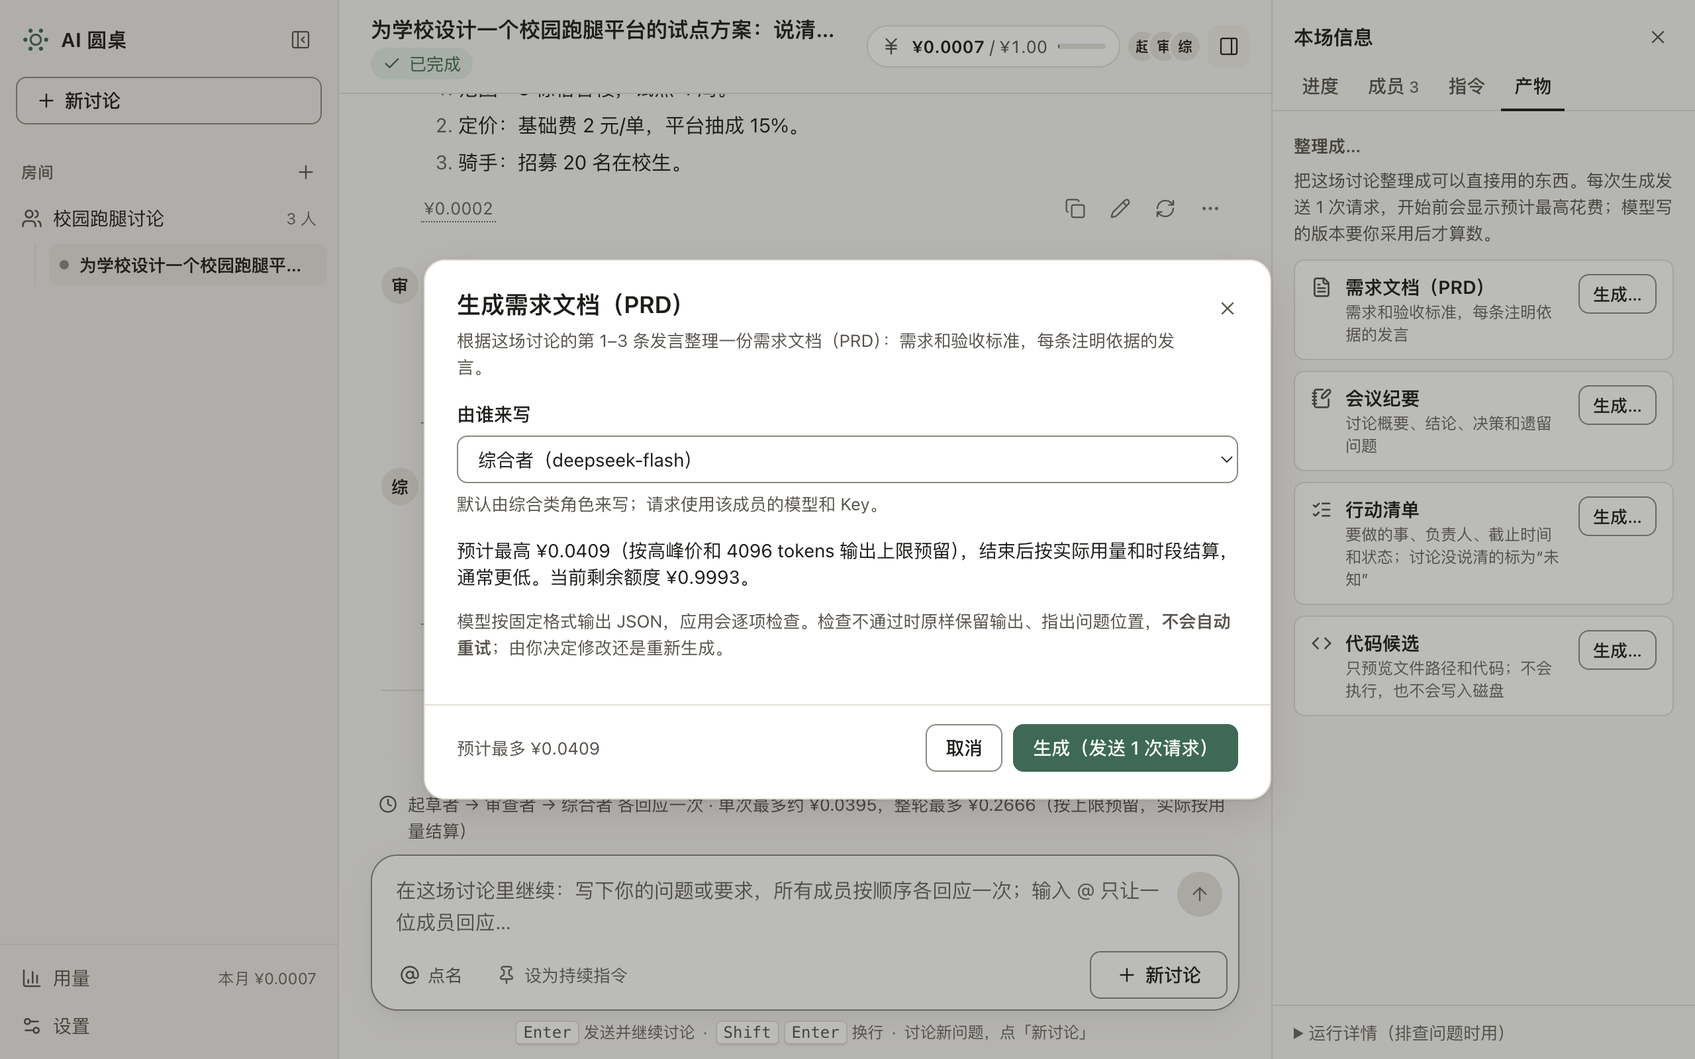
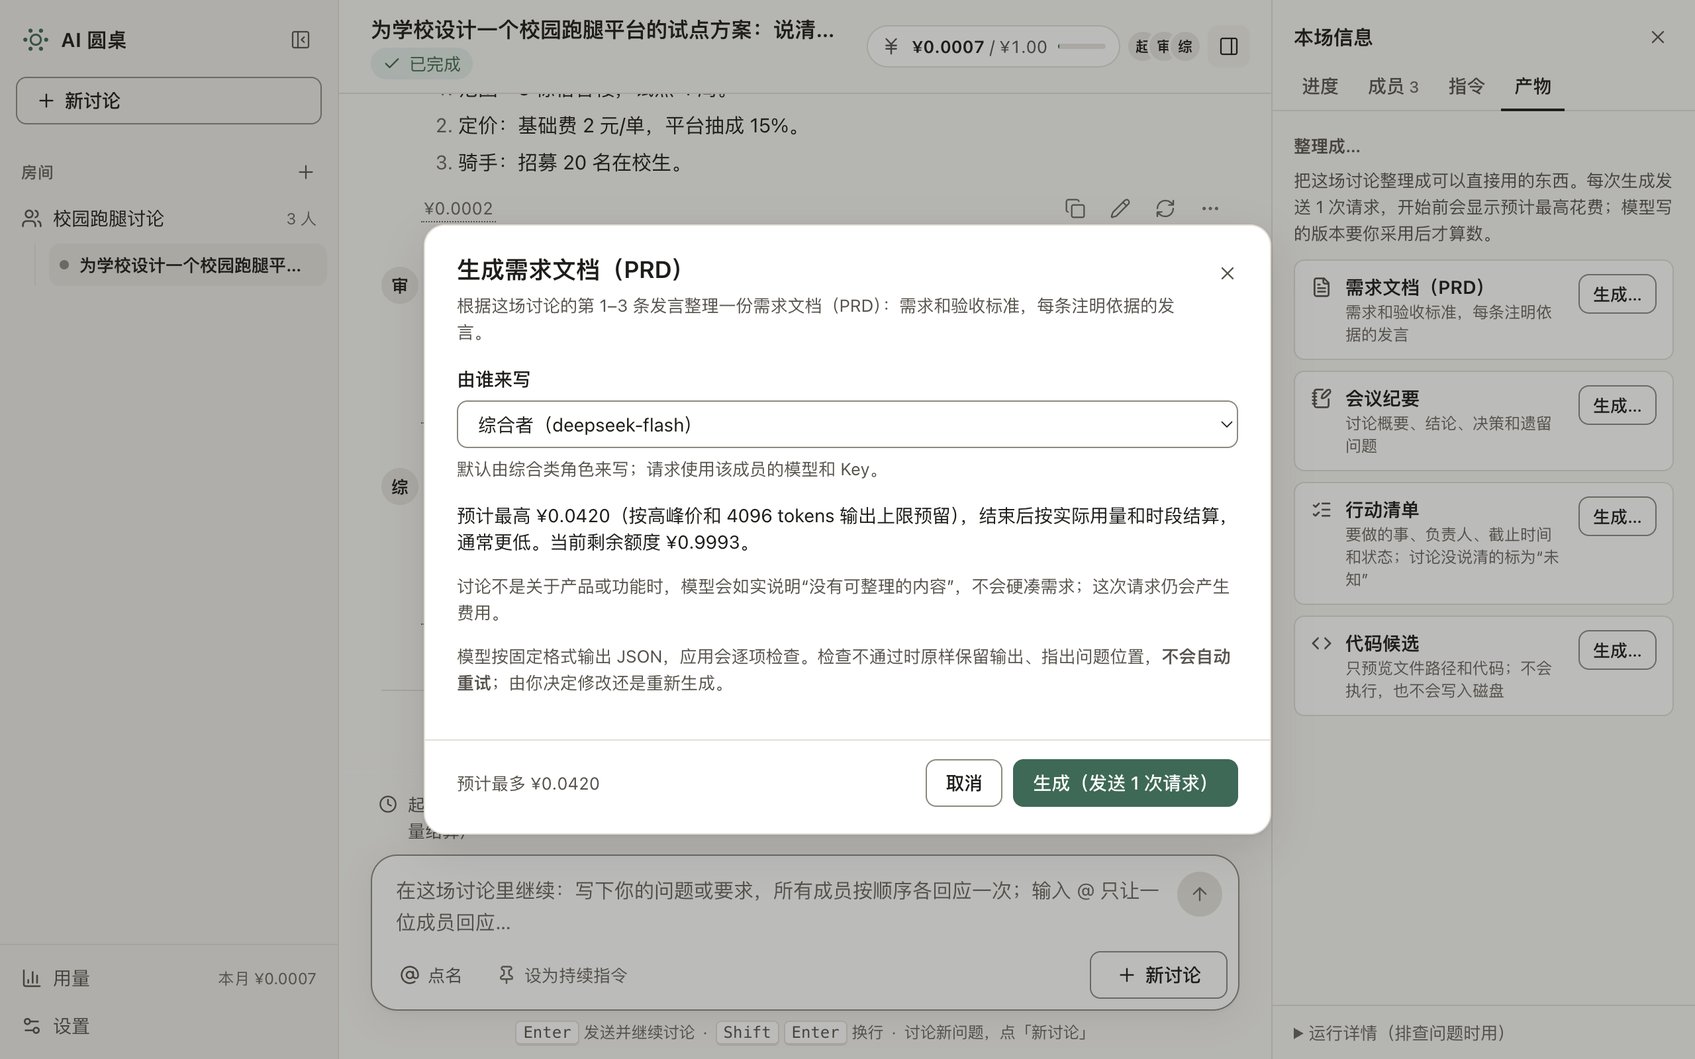
docs(r14): D124, cache-friendly order in D120 and the real-model results
Layer 3 is verified with the user's DeepSeek test; the code-candidate problem it
found and the zero cache hits are fixed here. Screens retaken on the final build.

Changed region(s): [[0.25, 0.1875, 0.75, 0.6562], [0.25, 0.6562, 0.75, 0.8125]]

diff --git a/docs/verification/2026-10-28-r14.md b/docs/verification/2026-10-28-r14.md
@@ -22,7 +22,7 @@
 | 命令 | 退出码 | 结果 |
 | --- | --- | --- |
 | `pnpm run typecheck` | 0 | 无错误 |
-| `pnpm test` | 0 | 138 个文件 / 2008 个测试全部通过（基线 134 / 1970） |
+| `pnpm test` | 0 | 138 个文件 / 2013 个测试全部通过（基线 134 / 1970） |
 | `pnpm run build` | 0 | main / preload / renderer 构建成功 |
 
 新增测试，对应任务书"具体测试情景"：
@@ -53,7 +53,7 @@
 | r16-continuity-acceptance | 38 项 / 15 张 PASS |
 | r16-longhistory | PASS（1001 条消息） |
 | r16-batch2-acceptance 首次 + `--restart` + `--restart2` | 58 + 7 + 7 项 PASS |
-| **r14-acceptance**（新）首次 + `--restart` | 56 + 6 项；21 + 2 张截图；夹具请求 8 + 0 次（总控审查修改后在最终构建上复跑） |
+| **r14-acceptance**（新）首次 + `--restart` | 59 + 7 项；22 + 2 张截图；夹具请求 9 + 0 次（真实实测后的修改完成后在最终构建上复跑） |
 
 共 35 个探针阶段，0 失败。其他任务的截图目录在复跑时被重新生成，提交前已用 `git checkout -- docs/verification` 还原，只保留本任务的 `r14-screens/`；本次运行创建的临时 profile 已删除。
 
@@ -71,7 +71,7 @@
 ./node_modules/.bin/electron tests/probes/r14-acceptance.cjs --restart <第一次输出的 profile 目录>
 ```
 
-截图在 [r14-screens/](r14-screens/)，1280 / 800 两档、浅色 / 深色。逐张说明：
+截图在 [r14-screens/](r14-screens/)，1280 / 800 两档、浅色 / 深色（真实实测后的修改完成后在最终构建上重拍）。逐张说明：
 
 | 截图 | 说明 |
 | --- | --- |
@@ -85,21 +85,22 @@
 | [08-minutes-editing.png](r14-screens/08-minutes-editing.png) | 点“修改为有效版本…”：在带实时校验的 JSON 编辑框里修改。改好“参与者”（写成列表）和“决定人”（讨论没说，写 null 表示未知）后，实时校验显示只剩一开始就列出的那 1 处：结论第 2 项引用了不存在的“第 7 条”（这次依据第 1–3 条）。每处问题前的“第 N 行”可以点，光标直接跳到那一行。“保存为新版本”在校验通过前不可用。 |
 | [09-minutes-fixed.png](r14-screens/09-minutes-fixed.png) | 保存后成为第 2 版“你修改的版本”，直接有效（主持人写的不需要再采用）；决策的“决定人”显示为“未知”。版本下拉里第 1 版仍是“校验失败”，原始输出可随时查看。整个修改没有发出请求。 |
 | [10-actions-candidate.png](r14-screens/10-actions-candidate.png) | 行动清单：事项、负责人、截止时间、状态、来源。讨论里没指派的负责人和没说的截止时间显示为“未知”，顶部提示“2 项没有明确负责人”；截止时间照抄讨论原话“第 2 周前”，没有换算成日期。 |
-| [11-code-candidate.png](r14-screens/11-code-candidate.png) | 代码候选：顶部写明“只在这里预览：不会执行，也不会写入任何文件”；每个文件显示相对路径、语言和行数，代码用净化后的代码块显示（可复制）。 |
-| [12-code-adopted.png](r14-screens/12-code-adopted.png) | 采用后代码候选有效：可以“复制 Markdown / JSON”，但没有“另存为…”，并写明写入磁盘会在后续版本提供、逐个文件确认。供后续写盘功能读取的接口只列出这份已采用、通过校验的候选；磁盘上没有任何新文件。 |
-| [13-panel-affected.png](r14-screens/13-panel-affected.png) | 主持人修改第 1 条发言后，产物标签页里依据了第 1 条的需求文档、行动清单、代码候选都标“受影响”（会议纪要是主持人自己改的版本，按修改时的原文记录依据，同样受影响）。 |
-| [14-prd-affected.png](r14-screens/14-prd-affected.png) | 打开需求文档：顶部提示“受影响：依据的第 1 条发言在这一版写成后被修改或重新生成，内容可能已经过时”，旁边就是“重新生成…”。 |
-| [15-prd-regenerate-dialog.png](r14-screens/15-prd-regenerate-dialog.png) | “重新生成需求文档（PRD）”：沿用上次的成员（综合者），说明会作为新的一版、之前的版本都保留，并写明预计最高花费。 |
-| [16-prd-regenerated.png](r14-screens/16-prd-regenerated.png) | 重新生成得到第 2 版（依据修改后的第 1 条，范围改成 2 栋），不再受影响；已采用。版本下拉里第 1 版仍保留并标“受影响”。 |
-| [17-prd-saved.png](r14-screens/17-prd-saved.png) | “另存为… › Markdown 文件（.md）”由 Main 弹出系统保存对话框，只写入主持人选的文件（探针选了自己的临时目录），提示“已保存为‘校园跑腿试点 PRD.md’”；状态变成“有效 · 已导出”。 |
-| [18-panel-800-dark.png](r14-screens/18-panel-800-dark.png) | 800×600 深色：本场信息变成右侧抽屉，产物列表的状态（有效 · 已导出、你修改的版本、受影响）清楚可读，无横向滚动。 |
-| [19-minutes-800-dark.png](r14-screens/19-minutes-800-dark.png) | 800×600 深色：阅读器占满窗口留边，长内容在中间滚动，头部（版本、状态）和底部按钮固定；“未知”标记在深色下仍清楚。 |
-| [20-minutes-v1-800-dark.png](r14-screens/20-minutes-v1-800-dark.png) | 在版本下拉里切回第 1 版：原样的不合格输出、逐项错误和标红的行都还在（深色）。 |
-| [21-usage-by-purpose-dark.png](r14-screens/21-usage-by-purpose-dark.png) | 用量页新增“按用途”：讨论发言、产物（文档、清单、代码候选）分开汇总请求数、用量和金额；导出的 CSV 里产物请求的类型写“产物”。 |
+| [11-code-empty.png](r14-screens/11-code-empty.png) | 这场讨论没有涉及代码：模型按约定只回了 {"nothing": 原因}。阅读器显示“没有可整理的内容”（中性灰，不是红色的校验失败），写明这不是模型出错、这一版不能采用或导出，并原样给出模型的说明；底部是“重新生成…”（主按钮）和“自己写一版…”，没有采用和导出。 |
+| [12-code-candidate.png](r14-screens/12-code-candidate.png) | 代码候选：顶部写明“只在这里预览：不会执行，也不会写入任何文件”；每个文件显示相对路径、语言和行数，代码用净化后的代码块显示（可复制）。 |
+| [13-code-adopted.png](r14-screens/13-code-adopted.png) | 采用后代码候选有效：可以“复制 Markdown / JSON”，但没有“另存为…”，并写明写入磁盘会在后续版本提供、逐个文件确认。供后续写盘功能读取的接口只列出这份已采用、通过校验的候选；磁盘上没有任何新文件。 |
+| [14-panel-affected.png](r14-screens/14-panel-affected.png) | 主持人修改第 1 条发言后，产物标签页里依据了第 1 条的需求文档、行动清单、代码候选都标“受影响”（会议纪要是主持人自己改的版本，按修改时的原文记录依据，同样受影响）。 |
+| [15-prd-affected.png](r14-screens/15-prd-affected.png) | 打开需求文档：顶部提示“受影响：依据的第 1 条发言在这一版写成后被修改或重新生成，内容可能已经过时”，旁边就是“重新生成…”。 |
+| [16-prd-regenerate-dialog.png](r14-screens/16-prd-regenerate-dialog.png) | “重新生成需求文档（PRD）”：沿用上次的成员（综合者），说明会作为新的一版、之前的版本都保留，并写明预计最高花费。 |
+| [17-prd-regenerated.png](r14-screens/17-prd-regenerated.png) | 重新生成得到第 2 版（依据修改后的第 1 条，范围改成 2 栋），不再受影响；已采用。版本下拉里第 1 版仍保留并标“受影响”。 |
+| [18-prd-saved.png](r14-screens/18-prd-saved.png) | “另存为… › Markdown 文件（.md）”由 Main 弹出系统保存对话框，只写入主持人选的文件（探针选了自己的临时目录），提示“已保存为‘校园跑腿试点 PRD.md’”；状态变成“有效 · 已导出”。 |
+| [19-panel-800-dark.png](r14-screens/19-panel-800-dark.png) | 800×600 深色：本场信息变成右侧抽屉，产物列表的状态（有效 · 已导出、你修改的版本、受影响）清楚可读，无横向滚动。 |
+| [20-minutes-800-dark.png](r14-screens/20-minutes-800-dark.png) | 800×600 深色：阅读器占满窗口留边，长内容在中间滚动，头部（版本、状态）和底部按钮固定；“未知”标记在深色下仍清楚。 |
+| [21-minutes-v1-800-dark.png](r14-screens/21-minutes-v1-800-dark.png) | 在版本下拉里切回第 1 版：原样的不合格输出、逐项错误和标红的行都还在（深色）。 |
+| [22-usage-by-purpose-dark.png](r14-screens/22-usage-by-purpose-dark.png) | 用量页新增“按用途”：讨论发言、产物（文档、清单、代码候选）分开汇总请求数、用量和金额；导出的 CSV 里产物请求的类型写“产物”。 |
 | [40-restart-panel.png](r14-screens/40-restart-panel.png) | 重启应用后重新打开这场讨论：四份产物、各自的版本和状态（有效 · 已导出、你修改的版本、受影响）都在。 |
 | [41-restart-minutes.png](r14-screens/41-restart-minutes.png) | 重启后打开会议纪要：第 2 版（你修改的）有效，版本下拉里第 1 版仍是校验失败、原始输出完整。 |
 
-第一次启动 56 项断言、21 张截图、8 次夹具请求（3 次发言 + 5 次产物：四类各一次、需求文档重新生成一次；会议纪要靠手工修改变有效，没有第二次请求）；重启 6 项断言、2 张截图、0 次请求，并只读核对 SQLite：migration 12、6 个产物版本、5 笔已结算的产物请求、1 次文件导出。
+第一次启动 59 项断言、22 张截图、9 次夹具请求（3 次发言 + 6 次产物：四类各一次，代码候选第一次如实回答"没有可整理的内容"后重新生成一次，需求文档受影响后重新生成一次；会议纪要靠手工修改变有效，没有第二次请求）；重启 7 项断言、2 张截图、0 次请求，并只读核对 SQLite：migration 12、7 个产物版本、6 笔已结算的产物请求、空结果及其原因、1 次文件导出。
 
 ### 实操中发现并修掉的问题
 
@@ -120,32 +121,32 @@
 
 ## 第 3 层：真实模型实测
 
-**未验证。** 合并前由总控与用户一起，用用户自己的 DeepSeek Key 在隔离试用 profile 里跑（不接触真实数据库）：
+**已验证**（总控与用户一起，2026-10-28 21:11 起，用户自己的 DeepSeek Key，模型 `deepseek-flash`，隔离试用 profile，空闲时段；基于 5 条发言的读书会讨论）：
 
-```bash
-pnpm trial:reset
-```
+| 项 | 结果 |
+| --- | --- |
+| JSON 一次通过率 | 会议纪要、行动清单、需求文档都一次通过校验并被采用，需求文档复制了 2 次 |
+| 未知事实 | 行动清单 15 项，负责人全部是 `null`，截止时间照抄讨论原话，没有编造；来源编号都在第 1–5 条之内 |
+| 花费 | 4 笔产物请求合计 ¥0.048，逐笔验算与账本一致 |
+| 代码候选 | 讨论没有涉及代码，模型如实输出 `title: null`、`files: []`，按当时的 schema 判为 2 处错误，界面显示"校验失败"、看起来像模型出错。**已在本次修复**：约定 `{"nothing": 原因}`，单独的状态"没有可整理的内容"（D124），截图 11 |
+| 缓存命中 | 同一场讨论连续 4 类请求 `cache_hit_tokens` 都是 0，旧的消息顺序在第二条就分叉。**已在本次修复**：共同前缀在前，各类的整理要求放在最后（D120） |
 
-```bash
-pnpm trial
-```
+修复后没有再做真实请求：新的消息顺序能否命中 DeepSeek 缓存、模型是否按约定回答 `nothing`，留到下一次真实使用时在用量页（"缓存命中"一栏）和阅读器里观察。
 
-建议脚本（预计实际花费约 ¥0.10–0.15，按高峰价与输出上限预留的最高总额约 ¥0.40；空闲时段减半。建议本场预算设 ¥0.50）：
+## 真实实测后的修改（2026-10-28）
 
-1. 新建房间（起草者 / 审查者 / 综合者，都用 DeepSeek Flash），目标写一个有明确取舍、**故意不指派负责人和日期**的话题，例如"给社团招新设计一个两周的推广计划：说清渠道、预算和衡量指标"。跑完 3 回合。
-2. 依次生成需求文档、会议纪要、行动清单、代码候选（代码可以让讨论里先提到"写一个报名表单的校验函数"）。每次生成前记下对话框里的预计最高花费，结束后在用量页 › 按用途 对照"产物"一行。
-3. 重点看：
-   - **JSON 一次通过率**：四类各一次，记录哪类校验失败、失败在哪个字段（阅读器里能直接看到）。
-   - **未知事实有没有被编造**：行动清单的负责人和截止时间，讨论没说的应当是"未知"；PRD 的来源编号应当能在时间线里对上（点"第 N 条"核对）。
-   - **内容质量**：是否只整理讨论内容、是否照抄发言、PRD 的验收标准能否验证、会议纪要的决策是否真的是决定过的。
-4. 改第 1 条发言后，确认四份产物标"受影响"；对 PRD 重新生成一次，核对新版本采用了修改。
-5. 用量页导出 CSV，核对产物请求的类型列为"产物"，金额与 DeepSeek 控制台一致（空闲时段更容易逐笔对账）。
+| 问题 | 处理 |
+| --- | --- |
+| 讨论里没有代码时，代码候选显示"校验失败" | D124：需求文档、行动清单、代码候选的整理要求里约定"没有就只输出 `{\"nothing\": 原因}`"；解析器只在模型输出里接受，版本状态"没有可整理的内容"，显示模型的原因；不能采用、导出，不进 R15；可以重新生成或"自己写一版"（从空白字段开始）。会议纪要不提供（任何讨论都能写纪要）。生成对话框提前写明"模型会如实说明，这次请求仍会产生费用"。migration 12 尚未合入 main，直接修改：`validation` 增加 `empty`、新列 `empty_reason`、触发器拒绝空的会议纪要；恢复校验同步 |
+| 产物请求缓存命中为 0 | 消息顺序改为：边界说明 → 各类通用的记录员说明 → 一条 user 消息（任务、讨论记录，最后是这一类的【整理要求】和提示）。集成测试核对四类请求除末尾外前缀完全相同 |
+
+修改后重新执行：`pnpm run typecheck` 0；`pnpm test` 138 个文件 / 2013 个测试全部通过；`pnpm run build` 0；在最终构建上重跑全部 35 个探针阶段，0 失败（r14 为 59 + 7 项）。
 
 ## 遗留问题
 
 | 项 | 说明 |
 | --- | --- |
-| 第 3 层 | 未验证，见上方建议脚本 |
+| 第 3 层的修复后表现 | 新的消息顺序能否命中 DeepSeek 缓存、模型是否按约定回答 `nothing`，修复后还没有真实请求验证 |
 | 同类型第二份产物 | 某类已有产物后，面板只提供打开（在阅读器里重新生成）；同一场讨论生成两份不同的同类产物暂不提供，数据模型已支持 |
 | 修改方式 | 只有带实时校验的 JSON 编辑框，没有逐字段表单；对不熟悉 JSON 的用户门槛偏高，可在后续按使用反馈加表单 |
 | 编辑时的状态句 | 修改校验失败的版本时，顶部仍是那一版的"N 处问题"，实时结果在编辑框下方 |
@@ -157,5 +158,5 @@ pnpm trial
 
 1. 按提交顺序审查：`fde43ca`（migration 12 与 Shared 契约，重点看重建的两个账本核对触发器和 v12 恢复校验）→ `40fea53`（Main，含摘要与产物共用的 `streamSideRequest`）→ `b1913b2`（IPC / Preload / 保存对话框）→ `c989612`（界面）→ 测试与探针。
 2. migration 12 只追加；合并前不要让它作用于用户的真实数据库。用户试用请用 `pnpm trial`（隔离试用 profile）。
-3. 合并后更新 STATUS；第 3 层按上方脚本与用户一起跑（预计 ¥0.10–0.15）。
+3. 合并后更新 STATUS。第 3 层已验证；本次修复后的缓存命中和 `nothing` 回答还没有真实请求验证，下一次真实使用时在用量页和阅读器里看一眼即可。
 4. R15 启动时以 D123 的 DTO 为输入，不要直接读产物表。

diff --git a/docs/CONTRACTS.md b/docs/CONTRACTS.md
@@ -432,13 +432,13 @@ R13A 子会话（分支 `codex/r13a-real-model-enable`，基线 R12 `15e2e30`）
 
 ## R14 结构化产物（2026-10-28，子会话候选，未合 main）
 
-分支 `codex/r14-structured-artifacts`（基线 `0c29bfe`）。决策见 [DECISIONS](DECISIONS.md) D118–D123。
+分支 `codex/r14-structured-artifacts`（基线 `0c29bfe`）。决策见 [DECISIONS](DECISIONS.md) D118–D124。
 
 | 层 | 变化 | 兼容性 |
 | --- | --- | --- |
-| Database / migration 12 | 新表 `artifacts`（run/room/kind，room 必须是 run 的房间）、`artifact_versions`（版本号连续；`validation pending/valid/invalid`，`content_json` 与 `issues_json` 二选一；输出只在请求生成中可改、只在请求完成后校验一次）、`artifact_sources`（同一 Run、已完成、有版本记录的消息）、`artifact_requests`、`artifact_charges`（照搬 `summary_charges`）、`artifact_adoptions`、`artifact_exports`（代码候选不能 `target='file'`）。全部禁止删除，身份不可改。**重建** migration 9 的 `charge_pricing_insert`、`charge_writeoff_insert` 两个触发器，把 `artifact_charges` 加进它们核对的账本（规则不变）。`markInFlightRunsInterrupted` 把生成中的产物请求标 interrupted、预留改 unknown。`validateDatabase` 新增 v12 段（表、触发器、两个重建触发器含 `artifact_charges`、身份 / 来源 / 采用 / 导出、内容与问题过 schema、请求输入、账本证据），v9 段的"定价 / 核销没有对应账本"检查在 v12 起也查 `artifact_charges` | 只追加；旧表不改。旧库升级走既有"先校验备份再迁移" |
-| Shared `schemas/artifact.ts`（新） | 四类内容 schema（`prdContentSchema` 等）、`artifactContentSchema {kind, data}`、`artifactIssueSchema {path, label, message, line?, column?}`、版本 / 列表 / 详情 / 来源 DTO、预览 / 生成 / 采用 / 修改 / 导出的输入输出、`validatedCodeCandidateSchema`、`codeCandidateListSchema`；中文标签常量 | 新增 |
-| Shared `schemas/artifactParse.ts`（新） | `parseArtifact(kind, raw, {sourceNumbers?})` → `{ok, content, json}` 或 `{ok:false, issues}`；`issueLabel`、`formatIssuePath` | 纯函数，Main 与 Renderer 共用 |
+| Database / migration 12 | 新表 `artifacts`（run/room/kind，room 必须是 run 的房间）、`artifact_versions`（版本号连续；`validation pending/valid/invalid/empty`，`content_json`、`issues_json`、`empty_reason`（D124，会议纪要不能为空）按状态三选一；输出只在请求生成中可改、只在请求完成后校验一次）、`artifact_sources`（同一 Run、已完成、有版本记录的消息）、`artifact_requests`、`artifact_charges`（照搬 `summary_charges`）、`artifact_adoptions`、`artifact_exports`（代码候选不能 `target='file'`）。全部禁止删除，身份不可改。**重建** migration 9 的 `charge_pricing_insert`、`charge_writeoff_insert` 两个触发器，把 `artifact_charges` 加进它们核对的账本（规则不变）。`markInFlightRunsInterrupted` 把生成中的产物请求标 interrupted、预留改 unknown。`validateDatabase` 新增 v12 段（表、触发器、两个重建触发器含 `artifact_charges`、身份 / 来源 / 采用 / 导出、内容与问题过 schema、请求输入、账本证据），v9 段的"定价 / 核销没有对应账本"检查在 v12 起也查 `artifact_charges` | 只追加；旧表不改。旧库升级走既有"先校验备份再迁移" |
+| Shared `schemas/artifact.ts`（新） | 四类内容 schema（`prdContentSchema` 等）、`artifactNothingSchema` 与 `artifactNothingKinds`（prd / actions / code）、版本状态增加 `empty` 与 `emptyReason`、`artifactSkeletons`、`artifactContentSchema {kind, data}`、`artifactIssueSchema {path, label, message, line?, column?}`、版本 / 列表 / 详情 / 来源 DTO、预览 / 生成 / 采用 / 修改 / 导出的输入输出、`validatedCodeCandidateSchema`、`codeCandidateListSchema`；中文标签常量 | 新增 |
+| Shared `schemas/artifactParse.ts`（新） | `parseArtifact(kind, raw, {sourceNumbers?, allowNothing?})` → `{ok, content, json}`、`{ok:false, issues}` 或 `{ok:false, issues:[], nothing}`（D124，只在模型输出时允许）；`issueLabel`、`formatIssuePath` | 纯函数，Main 与 Renderer 共用 |
 | Shared `schemas/budget.ts`、`usage.ts` | `requestCharge.kind` 增加 `'artifact'`；`usageUnknownRow.kind` 同；`usageReport.byKind?`（`turn/summary/artifact` 各一行） | 可选字段 / 枚举扩展；旧读者忽略 `byKind` |
 | Shared `schemas/run.ts` | 运行事件 `artifact_updated {artifactId, versionId, status: generating/completed/failed/aborted/adopted/edited/exported}`（run 级，store 收到后整份重取快照）；快照可选 `artifactRequestIds`，账本里 `kind:'artifact'` 的每一笔都必须在其中 | 新事件类型和可选字段；旧 Renderer 遇到未知事件会重取快照 |
 | Shared `schemas/error.ts` | 公开错误字段增加 `artifactId / versionId / text / sources / format / target` | 只增 |
